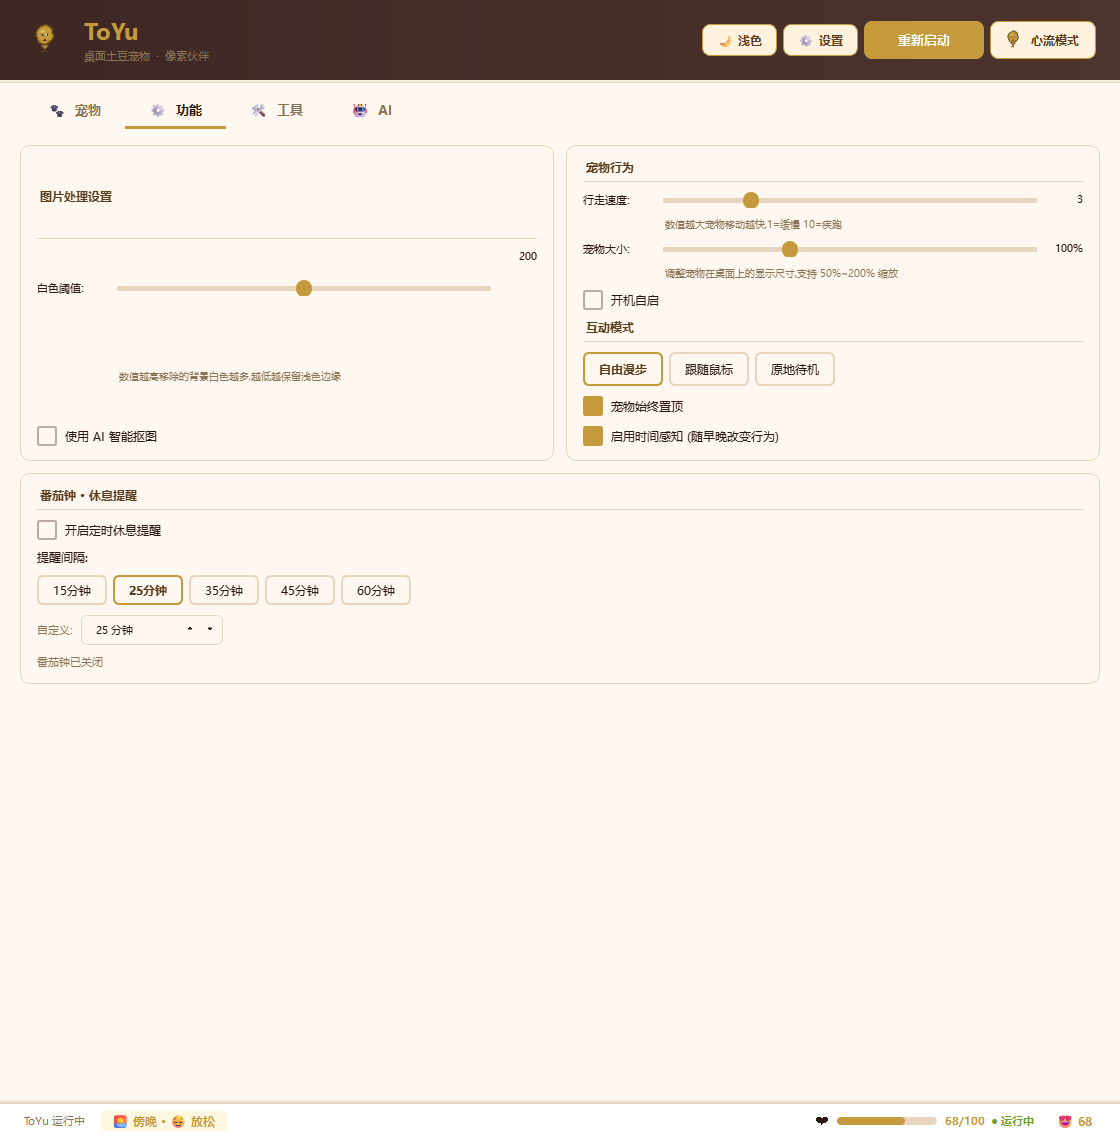
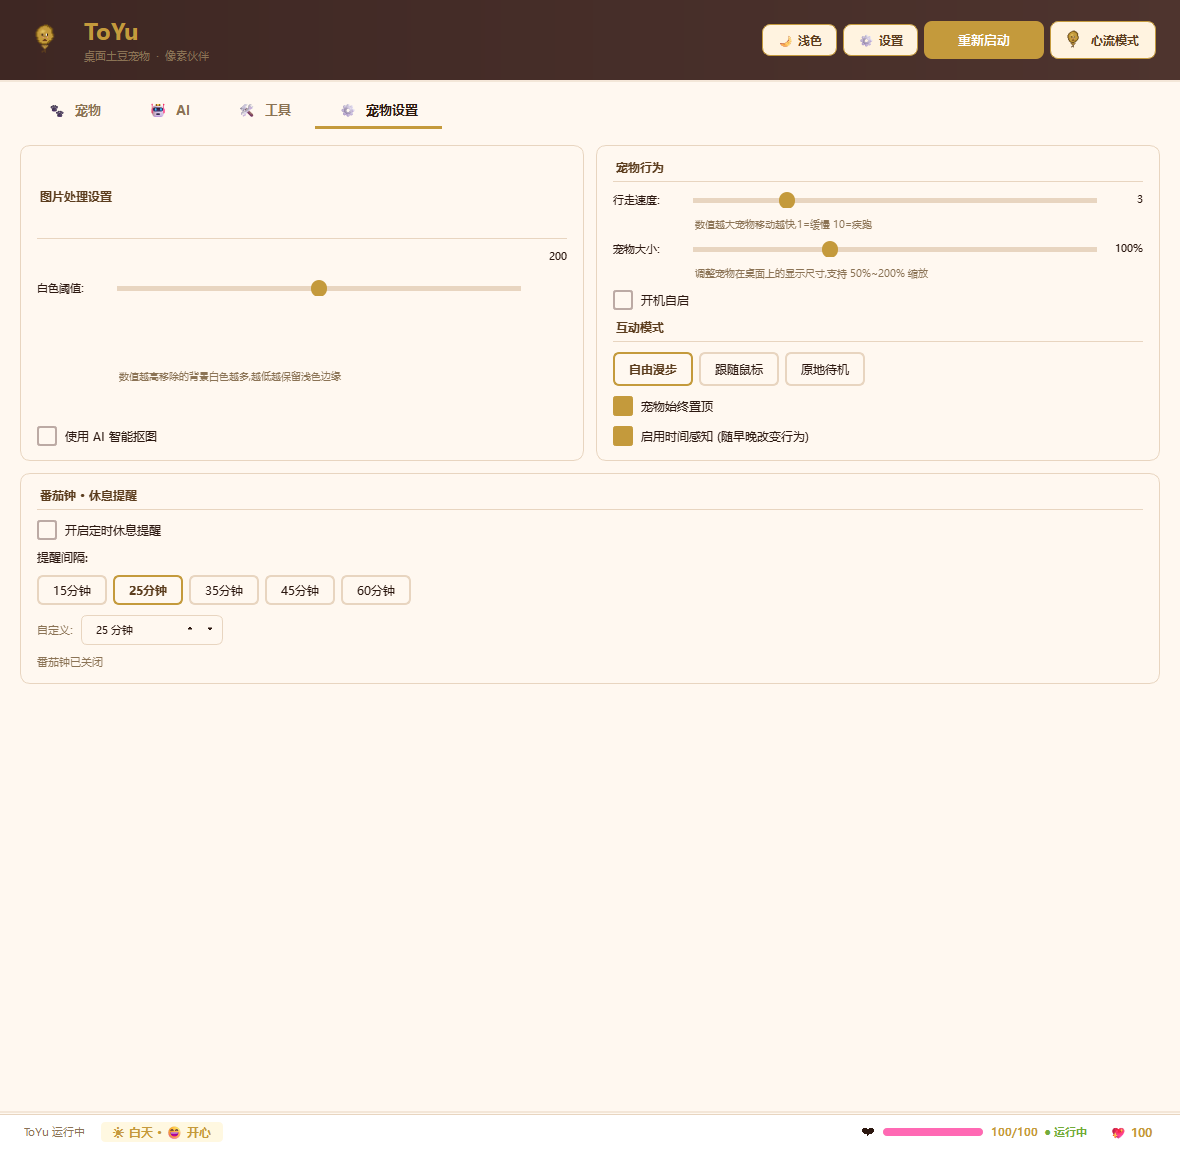
docs: 同步 v0.82.0 截图与安装包
一、截图更新（含真实演示数据）
   旧截图的数据面板、图表、"日期已做"全是空态（"暂无数据"），
   给评委看没有说服力。这次通过应用自身的接口造了一批结构真实的
   演示数据：7 天学习会话（每天 64~235 分钟）、目标 180 分钟/天、
   7 天完成记录、3 条待办。

   顺带修了一个截图脚本的坑：页面淡入是 200ms 动画，切页后立刻
   grab() 会抓到上一页（实测把 AI 页抓成了数据面板）。现在加了
   wait_page() 校验，确认停在目标页再截。

   产出 9 张，分别同步到三处：
     docs/screenshots/            5 张（README 用，01~05 编号不变）
     toyu-web/assets/img/         9 张（仓库镜像，会被 Pages 发布）
     ../toyu-web/assets/img/      9 张（主工作副本）
   两个网站副本做了逐文件字节数比对，确认一致。

二、截图暴露出的一个真 bug（已修）
   「日期已做」任务行在深色模式下是**一整块白底**。
   原因是这段代码用了模块级的 CARD_BG / TEXT 常量而不是 self._c()，
   常量永远是浅色值。改成主题取色后又发现第二层问题：这些行是在
   「选中日期」时动态生成的，不在 _theme_styles 的自动重刷范围内，
   切主题时不会更新 —— 已在 _notify_theme_windows() 里补上重渲染。

   实测：切深色后任务行底色 #FFFFFF -> #202327 ✓

三、网站同步
   · 图签「功能页」改为「宠物设置」（该页已改名）
   · download.json 指向 v0.82.0 直链（实测 HTTP 200 / 67.4 MB）
   · 版本号是 site.js 从 download.json 动态读取的，不用改 HTML

四、安装包
   已发布 GitHub Release v0.82.0，资产 ToYu_v0.82.0.zip（67.4 MB）。
   验证：4 张图签逐个点击后 naturalWidth 均为 1180，即全部真正加载。

五、验证
   · 全量回归 27/27 通过（132.8 秒）
   · 无头浏览器确认页面所有图片加载成功、图签切换正常

diff --git a/desktop-pet/ui/main_window.py b/desktop-pet/ui/main_window.py
@@ -3301,11 +3301,14 @@ class MainWindow(QMainWindow):
             self._finish_calendar_selection(date_str, tasks)
             return
 
-        CARD_BG = "#FFFFFF"
-        BORDER = "#E8D5C0"
-        TEXT = "#2C1810"
-        TEXT_SEC = "#8B7355"
-        DONE_GREEN = "#4CAF50"
+        # 这些颜色要走 self._c()，不能用模块级的 CARD_BG / TEXT 常量 ——
+        # 常量永远是浅色值，深色模式下任务行会变成一块白底（实测截图发现）。
+        # 本函数每次选日期都会重跑，所以直接用当前主题色即可。
+        _card_bg = self._c('card')
+        _border = self._c('border')
+        _text = self._c('text')
+        _text_sec = self._c('text2')
+        _done_green = self._c('success')
 
         for t in tasks:
             text = t.get("text", "")
@@ -3327,7 +3330,7 @@ class MainWindow(QMainWindow):
 
             card = QFrame()
             card.setStyleSheet(
-                f"QFrame {{ background: {CARD_BG}; border: 1px solid {BORDER};"
+                f"QFrame {{ background: {_card_bg}; border: 1px solid {_border};"
                 f" border-radius: 8px; }}"
             )
             row = QHBoxLayout(card)
@@ -3335,12 +3338,12 @@ class MainWindow(QMainWindow):
             row.setSpacing(6)
 
             check = QLabel("✓")
-            check.setStyleSheet(f"color: {DONE_GREEN}; font-size: 14px; font-weight: bold; background: transparent;")
+            check.setStyleSheet(f"color: {_done_green}; font-size: 14px; font-weight: bold; background: transparent;")
             row.addWidget(check)
 
             name_lbl = QLabel(text)
             name_lbl.setWordWrap(True)
-            name_lbl.setStyleSheet(f"color: {TEXT}; font-size: 12px; background: transparent;")
+            name_lbl.setStyleSheet(f"color: {_text}; font-size: 12px; background: transparent;")
             row.addWidget(name_lbl, 1)
 
             parts = []
@@ -3349,7 +3352,7 @@ class MainWindow(QMainWindow):
             if dur_str:
                 parts.append(dur_str)
             time_lbl = QLabel(" · ".join(parts))
-            time_lbl.setStyleSheet(f"color: {TEXT_SEC}; font-size: 11px; background: transparent;")
+            time_lbl.setStyleSheet(f"color: {_text_sec}; font-size: 11px; background: transparent;")
             row.addWidget(time_lbl)
 
             layout.addWidget(card)
@@ -5230,6 +5233,16 @@ class MainWindow(QMainWindow):
                 cal.set_dark(self._is_dark_mode)
             except Exception as exc:      # noqa: BLE001
                 print("[Theme] 日历跟随主题失败: %s" % exc)
+
+        # 「日期已做」列表：任务行是在选中日期时**动态生成**的（每行一个
+        # QFrame + 内联样式），不在 _theme_styles 的自动重刷范围内。
+        # 不重跑一次，深色下会留着一整块白底行。
+        date = getattr(self, "_selected_chart_date", "")
+        if date:
+            try:
+                self._on_calendar_date_selected(date)
+            except Exception as exc:      # noqa: BLE001
+                print("[Theme] 日期已做列表跟随主题失败: %s" % exc)
 
         for attr in ("_bead_editor", "_import_dialog", "_settings_dialog_obj"):
             win = getattr(self, attr, None)

diff --git a/README.md b/README.md
@@ -28,14 +28,14 @@
 <tr>
 <td width="50%">
 
-**宠物页** — 目标进度环 + 收藏夹 + 状态
+**宠物页** — 今日概览（学习 / 目标 / 屏幕 / 待办）+ 快捷入口 + 收藏夹
 
 <img src="docs/screenshots/01-pet-page.png" alt="宠物页">
 
 </td>
 <td width="50%">
 
-**数据面板** — 学习报告 + 图表 + 日历
+**数据面板** — 学习报告 + 时段/应用图表 + 日历 + 每日目标环
 
 <img src="docs/screenshots/02-data-panel.png" alt="数据面板">
 
@@ -44,14 +44,14 @@
 <tr>
 <td width="50%">
 
-**功能页** — 心流模式、待办、像素创作
+**宠物设置** — 图片处理、宠物行为、番茄钟休息提醒
 
-<img src="docs/screenshots/03-features.png" alt="功能页">
+<img src="docs/screenshots/03-features.png" alt="宠物设置页">
 
 </td>
 <td width="50%">
 
-**AI 助手** — 对话、记忆、工具调用
+**AI 助手** — 对话、长期记忆、10 个本机工具调用
 
 <img src="docs/screenshots/04-ai-page.png" alt="AI 页面">
 
